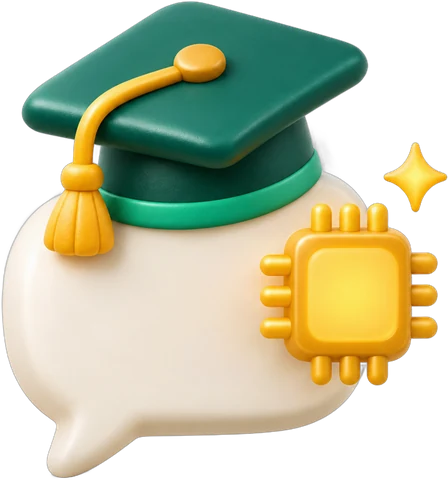
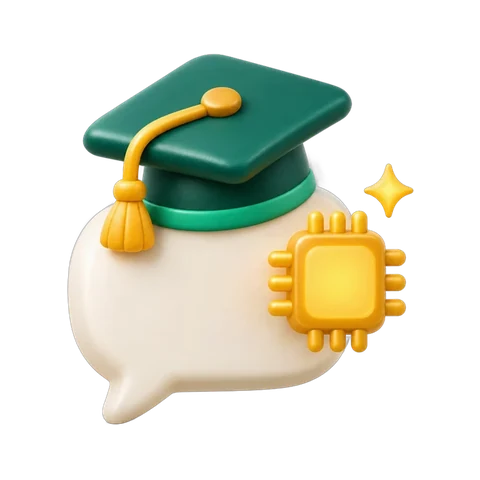
Uygulama ikonları eşit boyut

diff --git a/index.html b/index.html
@@ -216,9 +216,9 @@
       <p class="ust-etiket">Uygulama modeli</p>
       <h2 id="uyBaslik">Merkezinize eklenen <span class="y">yapay zekâ katmanı</span></h2>
       <ul class="uy-liste">
-        <li class="gor" style="--d:0"><img class="ikon3d" src="img/u_bulut.webp" alt="" loading="lazy"><div><b>Bulut tabanlı altyapı</b><p>Ek donanım veya tadilat gerekmez; sistem mevcut düzeninizin üzerine kurulur.</p></div></li>
-        <li class="gor" style="--d:1"><img class="ikon3d" src="img/u_mentor.webp" alt="" loading="lazy"><div><b>AI destekli bireysel mentörlük</b><p>Her öğrencinin planını yapay zekâ kurar, öğretmen mentör olarak takip eder.</p></div></li>
-        <li class="gor" style="--d:2"><img class="ikon3d" src="img/u_panel.webp" alt="" loading="lazy"><div><b>Ortak panel ve raporlama</b><p>Yönetici, öğretmen, öğrenci ve veli aynı sistemi kendi ekranından izler.</p></div></li>
+        <li class="gor" style="--d:0"><img class="ikon3d" src="img/u_bulut.webp?v=2" alt="" loading="lazy"><div><b>Bulut tabanlı altyapı</b><p>Ek donanım veya tadilat gerekmez; sistem mevcut düzeninizin üzerine kurulur.</p></div></li>
+        <li class="gor" style="--d:1"><img class="ikon3d" src="img/u_mentor.webp?v=2" alt="" loading="lazy"><div><b>AI destekli bireysel mentörlük</b><p>Her öğrencinin planını yapay zekâ kurar, öğretmen mentör olarak takip eder.</p></div></li>
+        <li class="gor" style="--d:2"><img class="ikon3d" src="img/u_panel.webp?v=2" alt="" loading="lazy"><div><b>Ortak panel ve raporlama</b><p>Yönetici, öğretmen, öğrenci ve veli aynı sistemi kendi ekranından izler.</p></div></li>
       </ul>
     </div>
     <figure class="foto gor">
